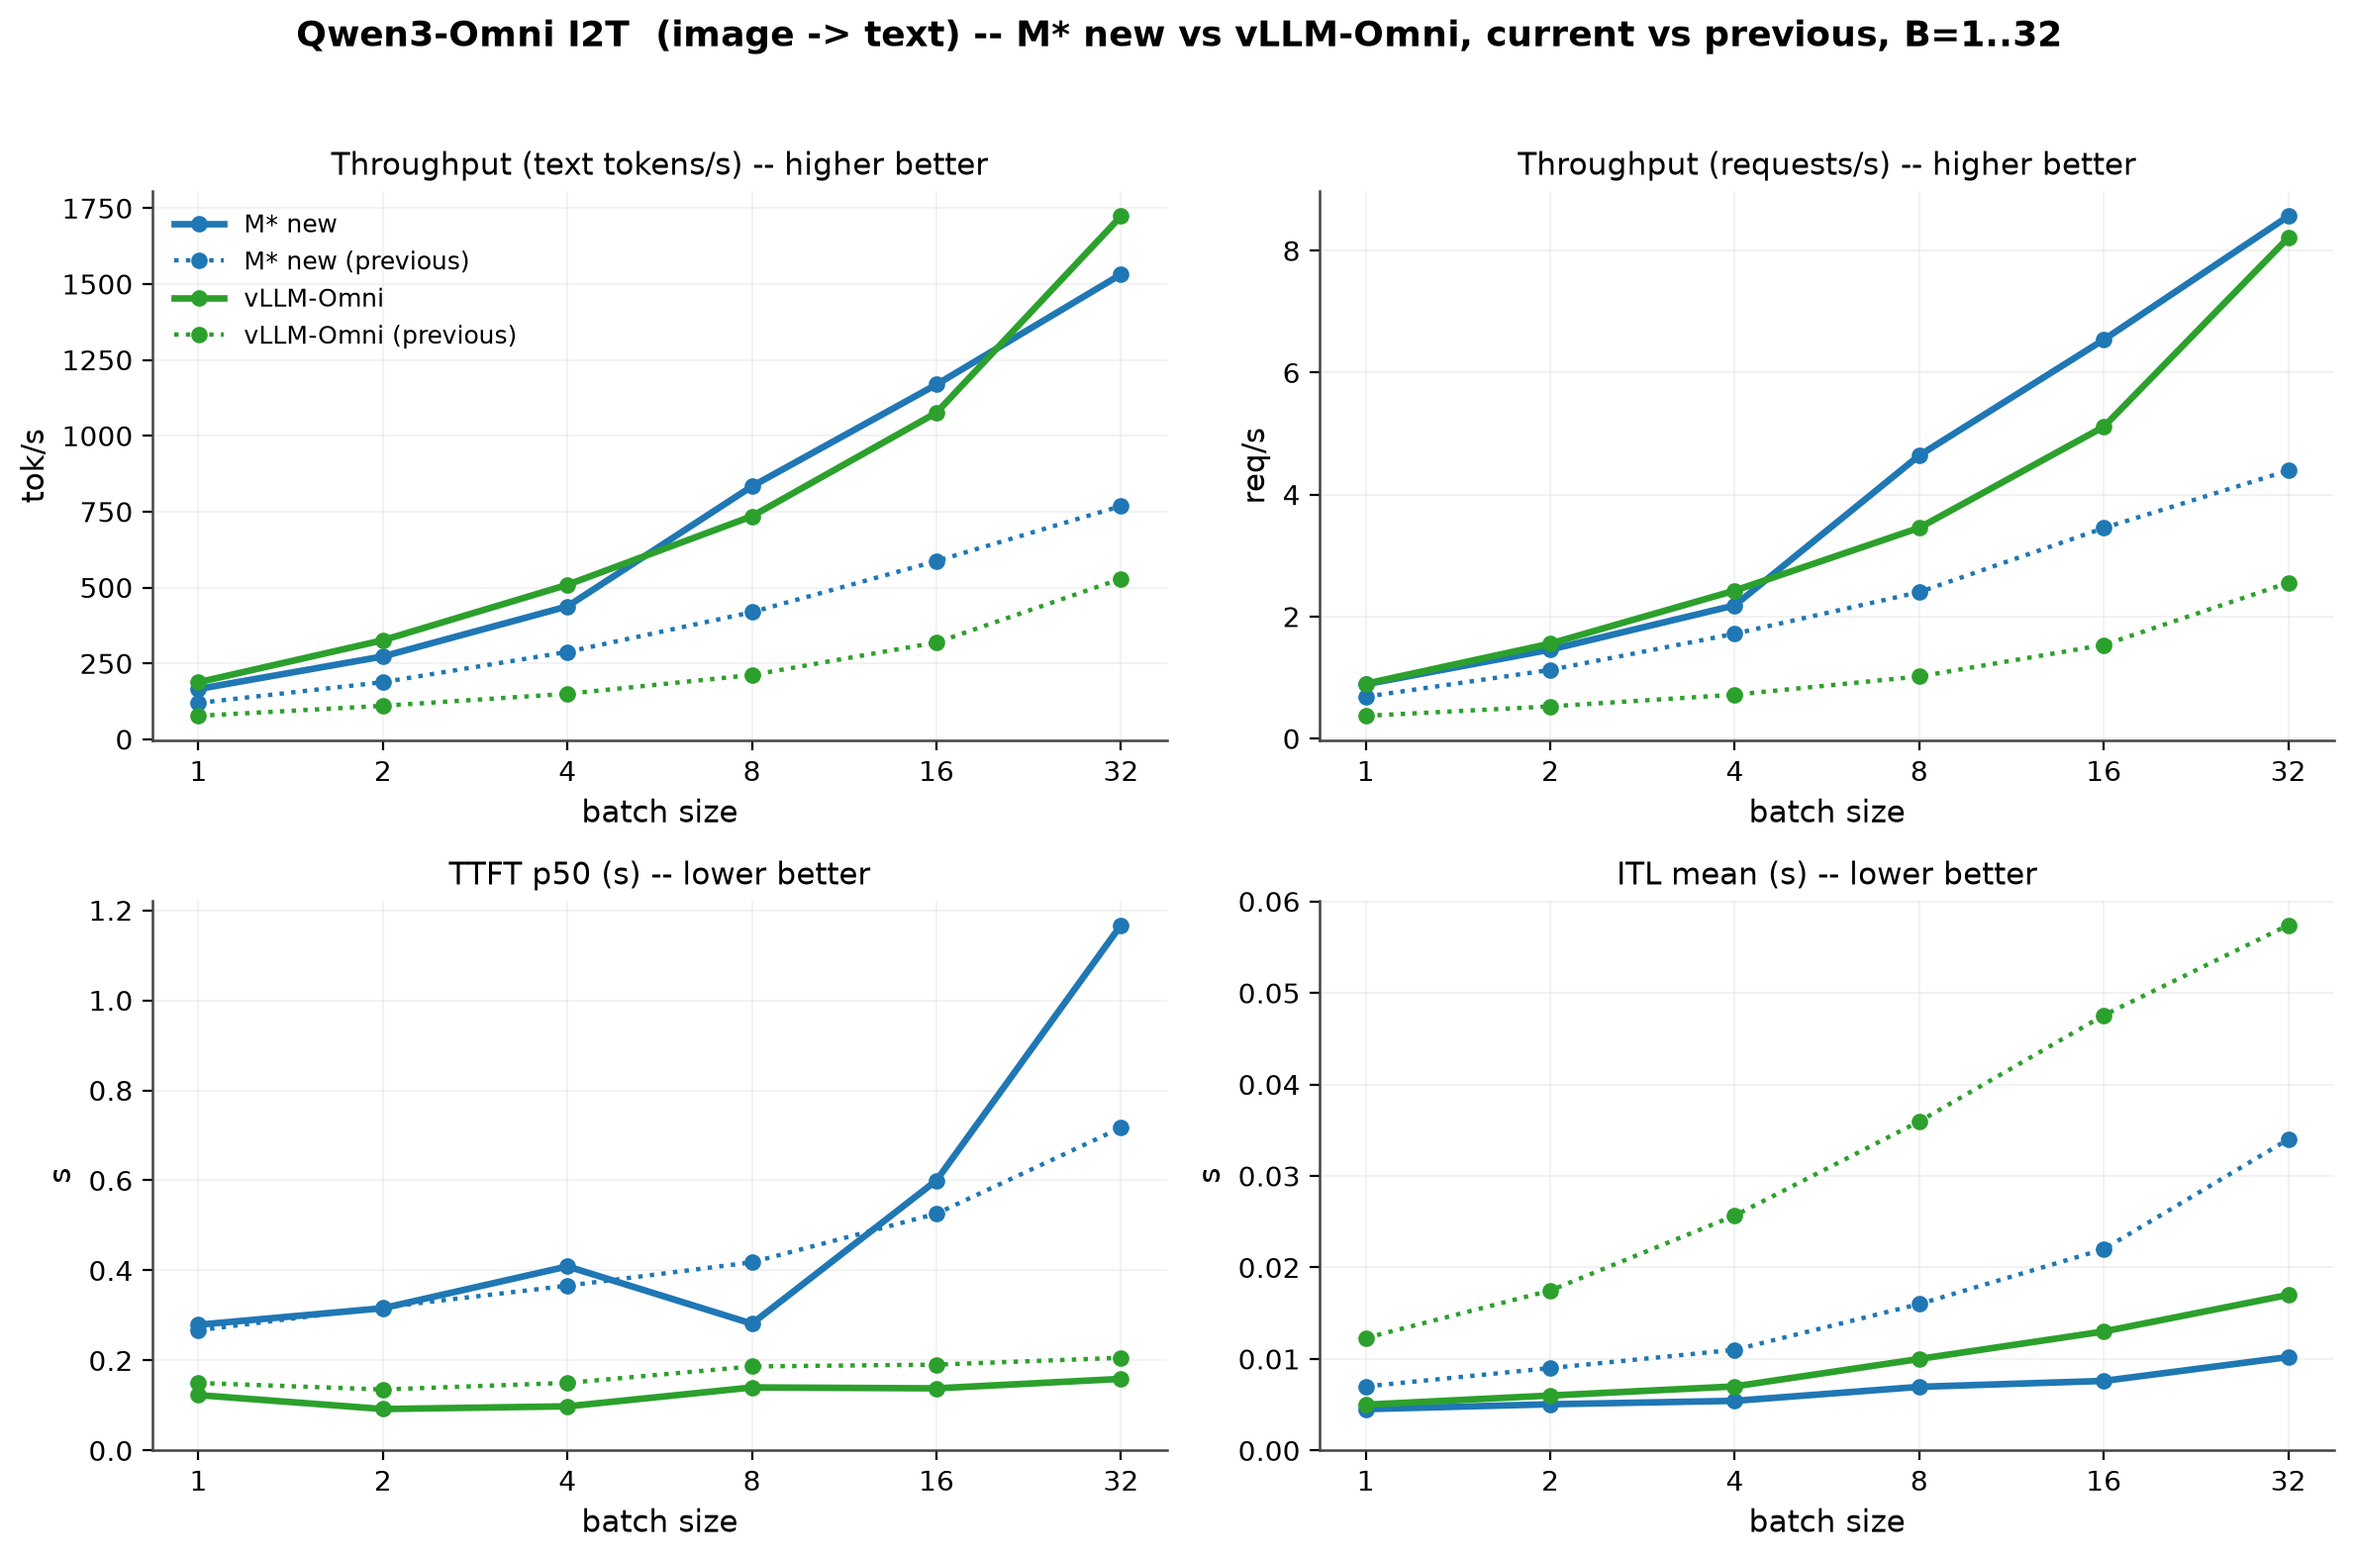
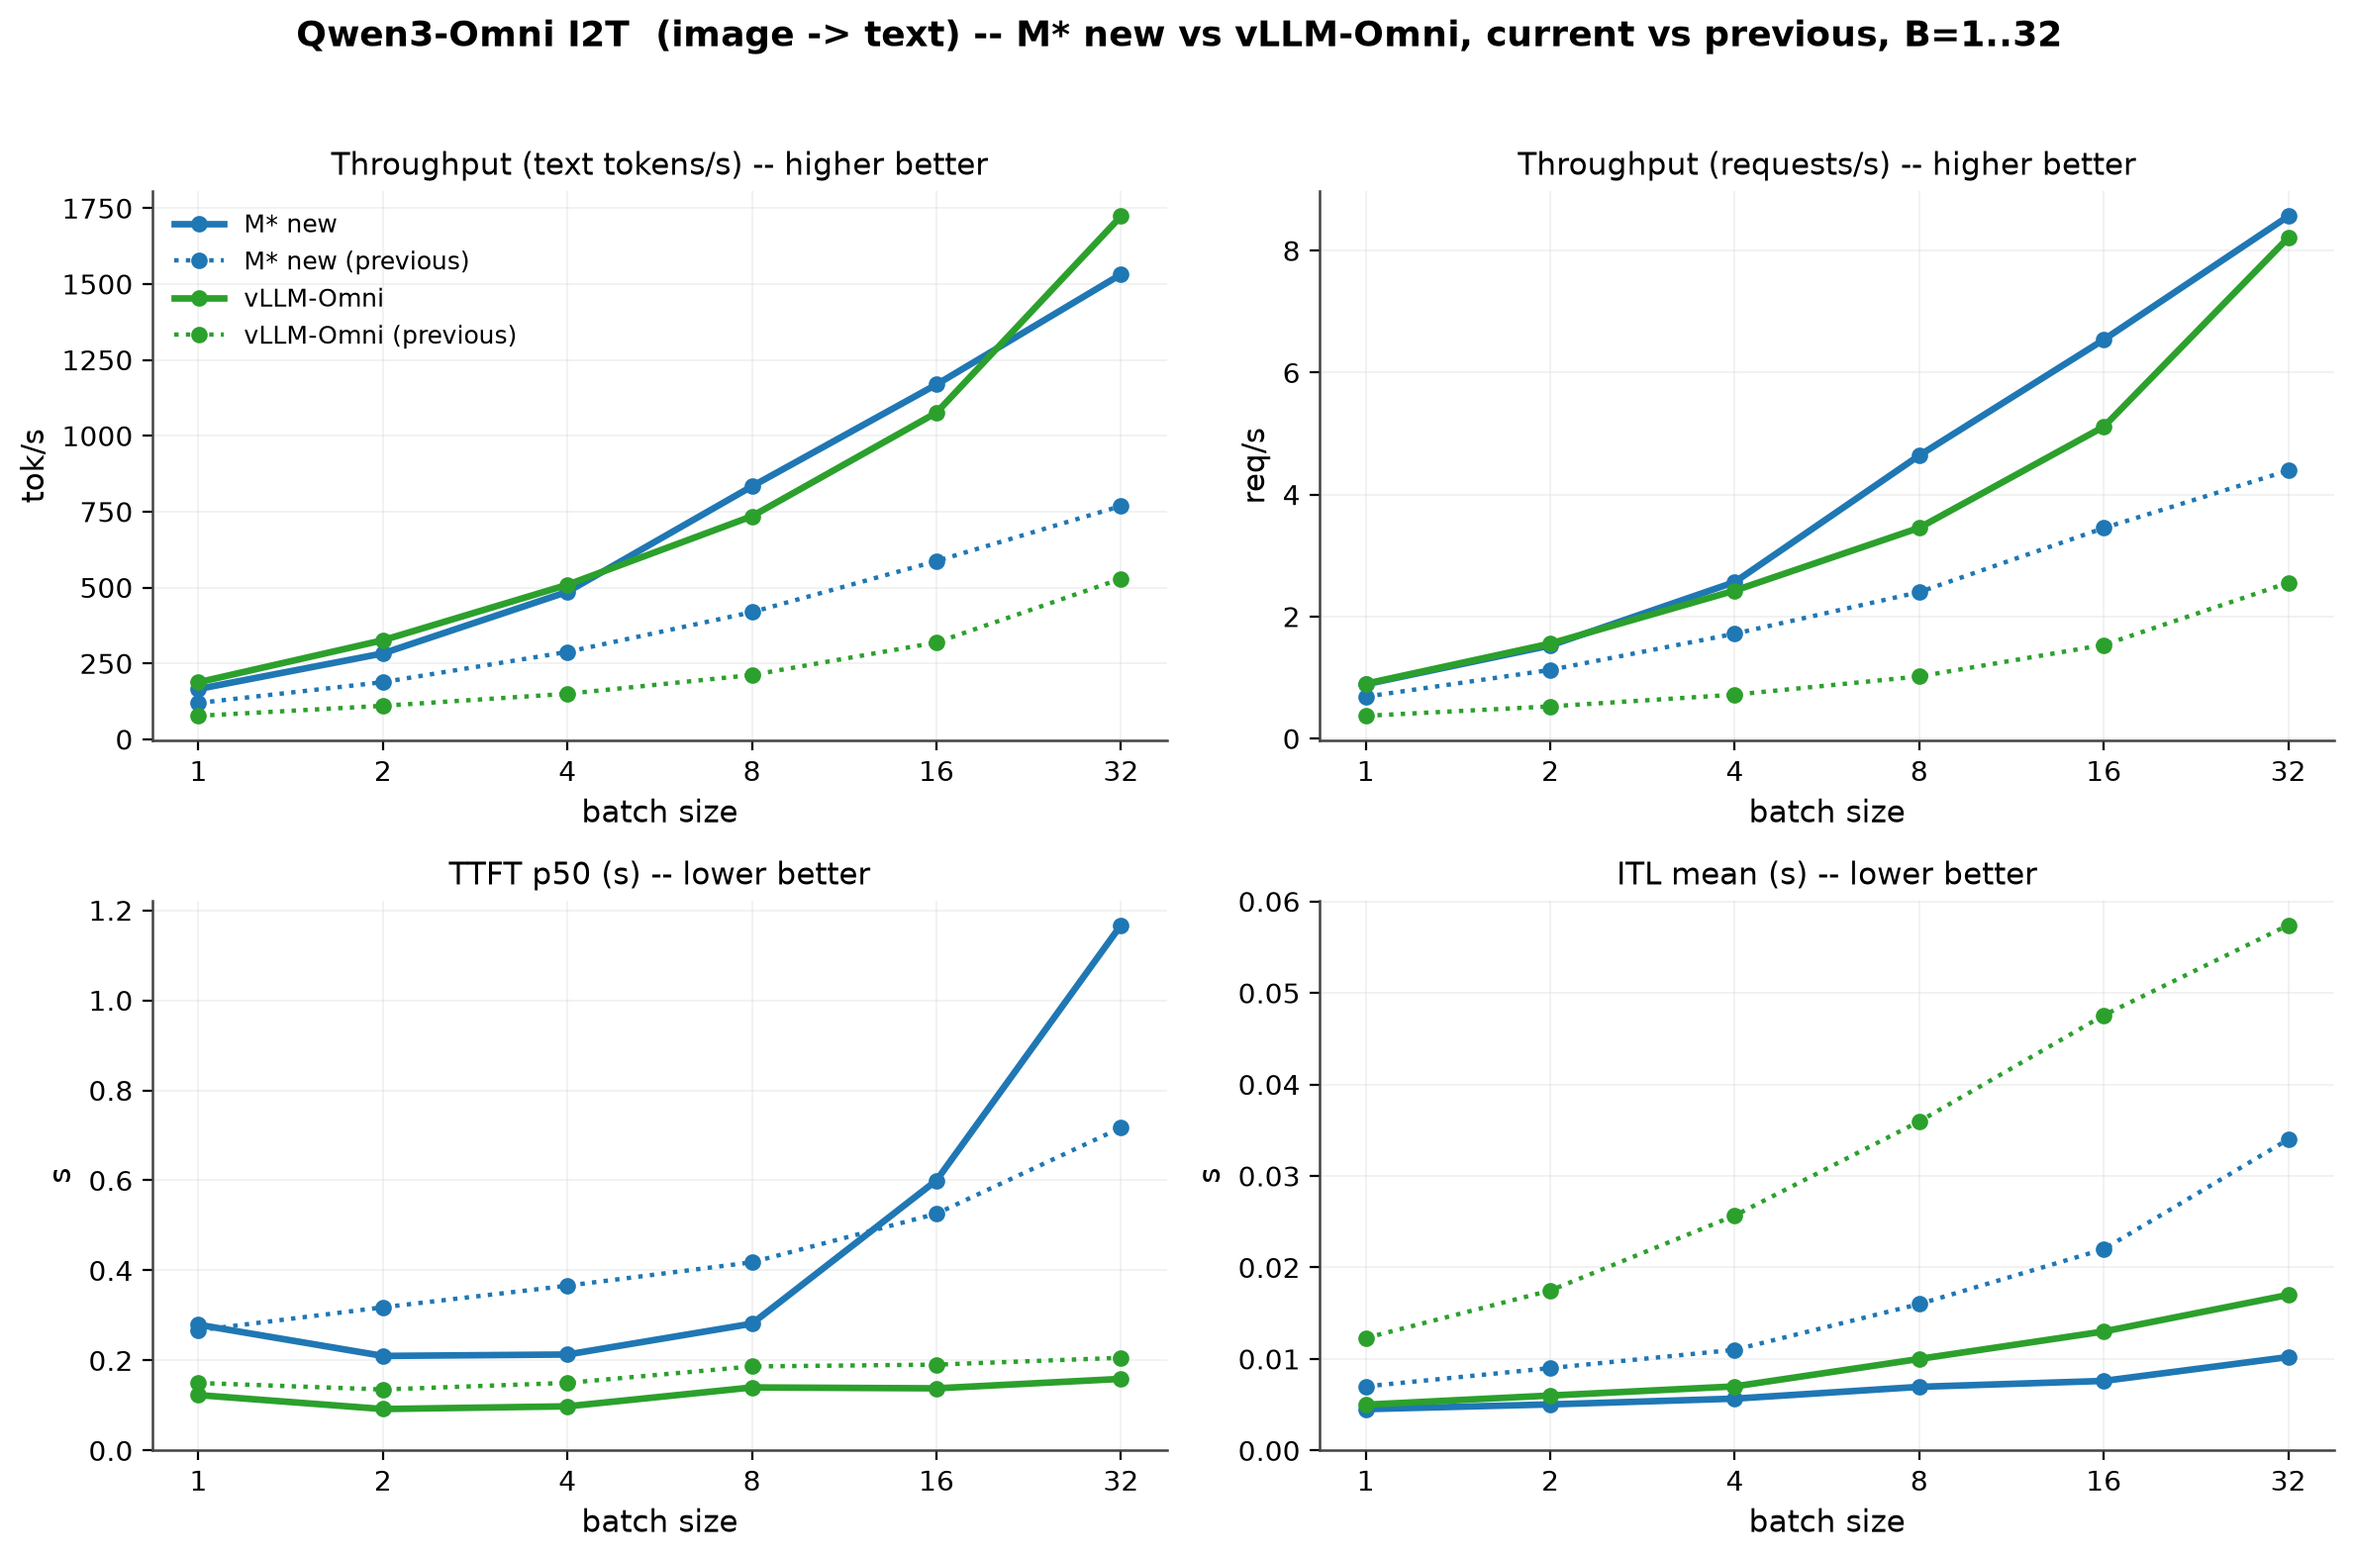
boot-3 re-measure: i2t B4 1.058x WIN this boot (0.90 on boot-2 — 18% boot effect, largest measured); B2 0.98 parity; pooled both parity-class; boot lottery is the residual, not code
Claude-Session: https://claude.ai/code/session_01EAGvwRJy4ERYvNaUzqvzHw

diff --git a/benchmarks/qwen3-omni-joint/EXPERIMENTS.md b/benchmarks/qwen3-omni-joint/EXPERIMENTS.md
@@ -2097,3 +2097,17 @@ sweep_mstar_v5_verified/all_cells.txt. Bottom line after verification:
 i2t B32 band-parity, i2t B2 0.94 / B4 0.90 boot-variant softs** — the two
 remaining softs are the next re-measure targets on a future boot, not code
 work.
+
+## 2026-07-06 — boot-3 re-measure of i2t B2/B4: B4 WINS on this boot (1.06x); boot effect measured at 18%
+Same build, same flags, same protocol (criterion warm-in + 5 repeats), third
+boot of the day. i2t B4: 2.480/2.565/2.722/2.607/2.535 → median 2.565 vs ref
+2.426 = **1.058x** (boot-2 measured the SAME cell at 0.90 — an 18% boot-to-boot
+split on identical code, the largest boot effect we have directly measured).
+i2t B2: 1.525/1.510/1.525/1.573/1.586 → median 1.525 vs 1.556 = 0.98 parity
+(boot-2 0.94). Pooled boot2+boot3 (n=10 each): B2 0.958, B4 0.981 — both
+parity-class pooled, win-or-parity per boot. CONCLUSION: i2t B2/B4 are not
+code regressions; they sample a boot distribution that straddles the ref.
+The stack-n2 law ("variance is the gap") now has a measured magnitude: the
+boot lottery moves small-batch i2t by up to ±10%. Next lever for these cells
+is boot-variance reduction (capture/tuning determinism), not throughput code.
+Boot-3 median cells committed to sweep_mstar_v5_verified (chart layer).
